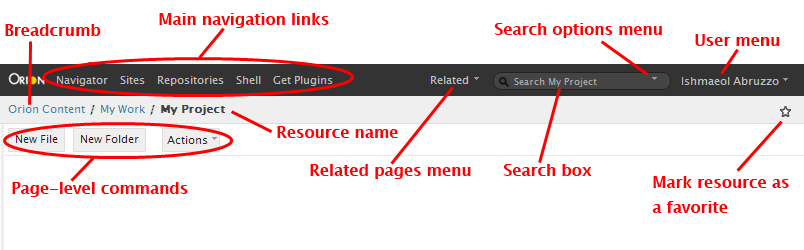
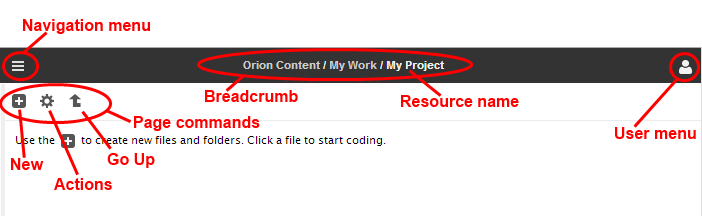
Updated getting started doc screen shots

Changed region(s): [[0.0, 0.0556, 1.0, 1.0], [0.5983, 0.0833, 0.8376, 0.1667], [0.8077, 0.8056, 0.9274, 0.8611]]

diff --git a/doc/org.eclipse.orion.doc.user/WikiDoc/Orion/Documentation/User_Guide/Getting_started/Getting-started.html b/doc/org.eclipse.orion.doc.user/WikiDoc/Orion/Documentation/User_Guide/Getting_started/Getting-started.html
@@ -49,64 +49,68 @@
 			<a href="../../../../Orion/Documentation/User_Guide/Reference/Navigator_page/Navigator-page.html" title="Orion/Documentation/User_Guide/Reference/Navigator_page">Navigator page</a> is used to browse and modify your files.
 		</p>
 		<h3 id="Creating_folders_and_files">Creating folders and files</h3>
-		<p>Once you've successfully logged into Orion, make sure you're at the 
-			<a href="../../../../Orion/Documentation/User_Guide/Reference/Navigator_page/Navigator-page.html" title="Orion/Documentation/User_Guide/Reference/Navigator_page">Navigator page</a> by clicking 
-			<b>Navigator</b> in the banner at the top of any page. This is where your files and folders will be shown. Because you haven't created any files or folders yet, the navigator is initially empty.
+		<p>First, make sure you're at the 
+			<a href="../../../../Orion/Documentation/User_Guide/Reference/Navigator_page/Navigator-page.html" title="Orion/Documentation/User_Guide/Reference/Navigator_page">Navigator page</a> by clicking the "hamburger" menu (
+			<img title="&quot;Hamburger&quot; menu" alt="&quot;Hamburger&quot; menu" border="0" src="images/Orion-hamburger-invert.png"/>), and then clicking 
+			<b>Navigator</b>. The Navigator is the primary place where your files and folders will be shown. Because you haven't created any files or folders yet, the navigator is initially empty:
 		</p>
 		<p>
-			<img title="Orion Initial Navigator State" alt="Orion Initial Navigator State" border="0" src="images/Orion-navinitial.png"/>
+			<img title="Orion Navigator, initial state" alt="Orion Navigator, initial state" border="0" src="images/Orion-navinitial.png"/>
 		</p>
-		<p>To start working with files and folders in Orion, create a folder using the 
-			<b>New &gt; Folder</b> action in the navigator toolbar:
+		<p>To start working with files and folders in Orion, create a folder by clicking the 
+			<img title="&quot;New&quot; menu" alt="&quot;New&quot; menu" border="0" src="images/Orion-new-menu.png"/> menu and clicking 
+			<b>New Folder</b>:
 		</p>
 		<p>
 			<img title="Navigator Toolbar" alt="Navigator Toolbar" border="0" src="images/Orion-navbreadcommands.png"/>
 		</p>
-		<p>To navigate the files, you can either expand the folders (using the &#9658; twisties), or you can click on the folder's name to drill into that folder. After you have drilled into a folder, you can use the breadcrumb at the top of the page, or your browser's 
-			<b>Back</b> button, or a keyboard command (Alt+&#8593;) to navigate back up the tree.
+		<p>To navigate, you can either expand the folders in-place (using the &#9658; twisties), or you can click on the folder's name to drill into that folder. After you have drilled into a folder, you can navigate back up using the breadcrumb at the top of the page (pictured below). You can also use your browser's 
+			<b>Back</b> button, or a keyboard command (Alt+&#8593;) to navigate up.
 		</p>
 		<p>
 			<img title="Navigator Breadcrumbs" alt="Navigator Breadcrumbs" border="0" src="images/Orion-navbreadcrumb.png"/>
 		</p>
 		<h3 id="Using_the_common_banner">Using the common banner</h3>
-		<p>The banner provides access to common operations in Orion.  The main 
-			<b>navigation links</b> appear at the top left of the page banner, next to the Orion logo.  The right side of the banner provides a 
-			<b>user options menu</b> containing Settings, Help, and other commonly used actions.  Underneath, the page header describes the title of the page, the 
-			<b>breadcrumb</b>, and the name of the resource being manipulated.  On the right of the page header are items that let you quickly find and mark pages that you commonly use.  The 
-			<b>star icon</b> allows you to mark the current folder (or in general, the 
-			<i>resource</i> you're currently viewing) as a favorite.  The 
-			<b>search box</b> allows you to quickly search the contents of the current folder. Next to the search box is the 
-			<b>search options</b> menu, which lets you set advanced options such as regular expression search and access saved searches. The 
-			<b>Related pages</b> menu lets you quickly navigate to another Orion page relevant to the folder you're viewing (for example, if you're viewing a folder inside a Git repository, you can navigate straight to the Git Log page for the folder).
+		<p>The banner provides access to common operations in Orion.  The 
+			<b>navigation menu</b> (sometimes called the "hamburger") appears in the left side of the banner, and provides access to 
+			<b>navigation links</b> that take you to various pages in Orion, as well as related resources or tasks that are relevant to your current context. (For example, if you're viewing a folder inside a Git repository, a Git Log link will be shown. Clicking it takes you straight to the Git Log page for the folder.)
 		</p>
-		<p>Below the banner, the content of the page appears. The page toolbar contains commands. The 
-			<b>New File</b> and 
-			<b>New Folder</b> act on the current folder (unless you've made a selection in the file tree).
+		<p>The right side of the banner provides a 
+			<b>user menu</b> containing Settings, Help, and other actions vaguely related to your user identity.
 		</p>
+		<p>In the center of the banner, you'll find the 
+			<b>breadcrumb</b>, and the name of the resource being manipulated. (Some Orion pages will show a simple static title here, if you're not currently targeting any particular resource.)
+		</p>
+		<p>Below the banner, the content of the page appears. The page toolbar contains commands. The commands act upon the current folder (unless you've made a selection in the file tree).</p>
 		<p>
 			<img title="Common Banner" alt="Common Banner" border="0" src="images/Orion-topbanner.png"/>
 		</p>
-		<p>Commands that apply to an individual file or folder are located in the 
-			<b>Actions</b> menu next to the item in the navigator.
+		<p>Here is a picture of the banner with the navigation and user menus expanded, to show the various links they offer:</p>
+		<p>
+			<img title="Common banner with menus expanded" alt="Common banner with menus expanded" border="0" src="images/Orion-banner-expanded.png"/>
 		</p>
+		<p>The 
+			<b>New</b> menu (
+			<img title="New menu" alt="New menu" border="0" src="images/Orion-new-menu.png"/>) contains commands for creating new files or folders, and the 
+			<b>Actions</b> menu (
+			<img title="Actions menu" alt="Actions menu" border="0" src="images/Orion-actions-menu.png"/>) contains commands that apply to existing files or folders. The Go Up command lets you navigate up to the parent folder.
+		</p>
+		<p>Files and folders may be selected by clicking their row in the tree, or by using the Ctrl and arrow keys on the keyboard. Once a selection has been made, the Actions menu will show commands that operate on the selected items (such as move, copy, and delete). If you have not made a selection, the Actions menu will show commands that act upon the folder you're currently viewing.</p>
 		<p>
 			<img title="Navigator actions" alt="Navigator actions" border="0" src="images/Orion-navactions.png"/>
 		</p>
-		<p>Files and folders may be selected by clicking their row, or by using the Ctrl and arrow keys on the keyboard. Once a selection has been made, commands that operate on the selected items (such as move, copy, and delete) will be available in the Actions menu.</p>
 		<h3 id="Importing_folders_and_files">Importing folders and files</h3>
 		<p>There are many ways to import your files into Orion. You can upload a zip file, import via SFTP, or clone a Git repository.</p>
 		<p>
 			<img title="Import files" alt="Import files" border="0" src="images/Orion-navimport.png"/>
 		</p>
-		<p>To import files from your local file system into Orion, select one or more files on your computer and drag them on to the Import dialog:</p>
+		<p>To import files from your local file system into Orion, select one or more files on your computer and simply drag them into the file tree.</p>
 		<p>
-			<img title="Import from zip dialog" alt="Import from zip dialog" border="0" src="images/Orion-navimportdialog.png"/>
+			<img title="Import by drag and drop" alt="Import by drag and drop" border="0" src="images/Orion-navimport-dnd.png"/>
 		</p>
-		<p>The dialog only accepts files, not folders, so to import a folder, you'll have to zip it first. Then drag the .zip file into the dialog, ensuring that the 
-			<b>Unzip *.zip files</b> option is checked, and the contents of the zip file will appear in your folder in the navigator, like this:
-		</p>
+		<p>You can also drag Zip files into the navigator. Orion will ask you if you want to unzip the folder. This is convenient for backing up and restoring your work. If your browser supports it, you can drag and drop an entire folder from your OS file explorer into Orion:</p>
 		<p>
-			<img title="Imported zip contents" alt="Imported zip contents" border="0" src="images/Orion-navimportcontent.png"/>
+			<img title="Drag and drop a folder" alt="Drag and drop a folder" border="0" src="images/Orion-navimport-dnd-folder.png"/>
 		</p>
 		<h3 id="Exporting_folders_and_files">Exporting folders and files</h3>
 		<p>When you have worked with your code on Orion and are ready to export your work back to your local workstation, navigate to the folder you wish to export and choose the 
@@ -116,23 +120,6 @@
 			<img title="Export as zip" alt="Export as zip" border="0" src="images/Orion-navexport.png"/>
 		</p>
 		<p>The contents of the folder will be placed in a zip file, and that zip file will be downloaded using your browser's download manager.</p>
-		<h3 id="Creating_favorites">Creating favorites</h3>
-		<p>You can use the 
-			<b>Favorites</b> icon in the page header or the favorites menu item to bookmark a folder or file in your navigator. A link to this folder or file will appear in your favorites list and can be used to navigate quickly to that file or folder. 
-		</p>
-		<p>
-			<img title="Favorites" alt="Favorites" border="0" src="images/Orion-favorites.png"/>
-		</p>
-		<p>Favorites are also suggested as move/copy targets.</p>
-		<p>
-			<img title="Favorites as copy / move targets" alt="Favorites as copy / move targets" border="0" src="images/Orion-copymove.png"/>
-		</p>
-		<p>They also appear in the 
-			<b>Find File</b> dialog.
-		</p>
-		<p>
-			<img title="Favorites in find file" alt="Favorites in find file" border="0" src="images/Orion-findfile.png"/>
-		</p>
 		<h2 id="Editing_code">Editing code</h2>
 		<p>Once you've navigated to the file you want to work with, click on its link to open the 
 			<a href="../../../../Orion/Documentation/User_Guide/Reference/Coding_page/Coding-page.html" title="Orion/Documentation/User_Guide/Reference/Coding_page">Coding page</a>.  You'll find that the editor supports the basics (cut/copy/paste, undo/redo) as well as your favorite text-editing features from Eclipse desktop (move up/down, copy up/down, go to line, find, incremental find). For now, most of these commands are accessible only through keyboard shortcuts, using the default key bindings in Eclipse desktop. To see a full list of available keyboard commands in the editor, press 

diff --git a/doc/org.eclipse.orion.doc.user/WikiDoc/Orion/Documentation/User_Guide/Reference/Coding_page/Coding-page.html b/doc/org.eclipse.orion.doc.user/WikiDoc/Orion/Documentation/User_Guide/Reference/Coding_page/Coding-page.html
@@ -40,7 +40,11 @@
 		</p>
 		<p>It is possible to choose a keybinding set from either the local settings page:</p>
 		<p>
-			<img title="default bindings" alt="default bindings" border="0" src="images/DefaultBindings.png"/>
+			<img title="local editor settings" alt="local editor settings" border="0" src="images/LocalEditorSettings.png"/>
+		</p>
+		<p>Or from the Editor settings page:</p>
+		<p>
+			<img title="editor settings" alt="editor settings" border="0" src="images/EditorSettings.png"/>
 		</p>
 		<h2 id="Language_tools">Language tools</h2>
 		<p>Syntax highlighting for several languages is built into the Orion editor. In particular there is support for JavaScript, HTML, CSS, and Java. A 
